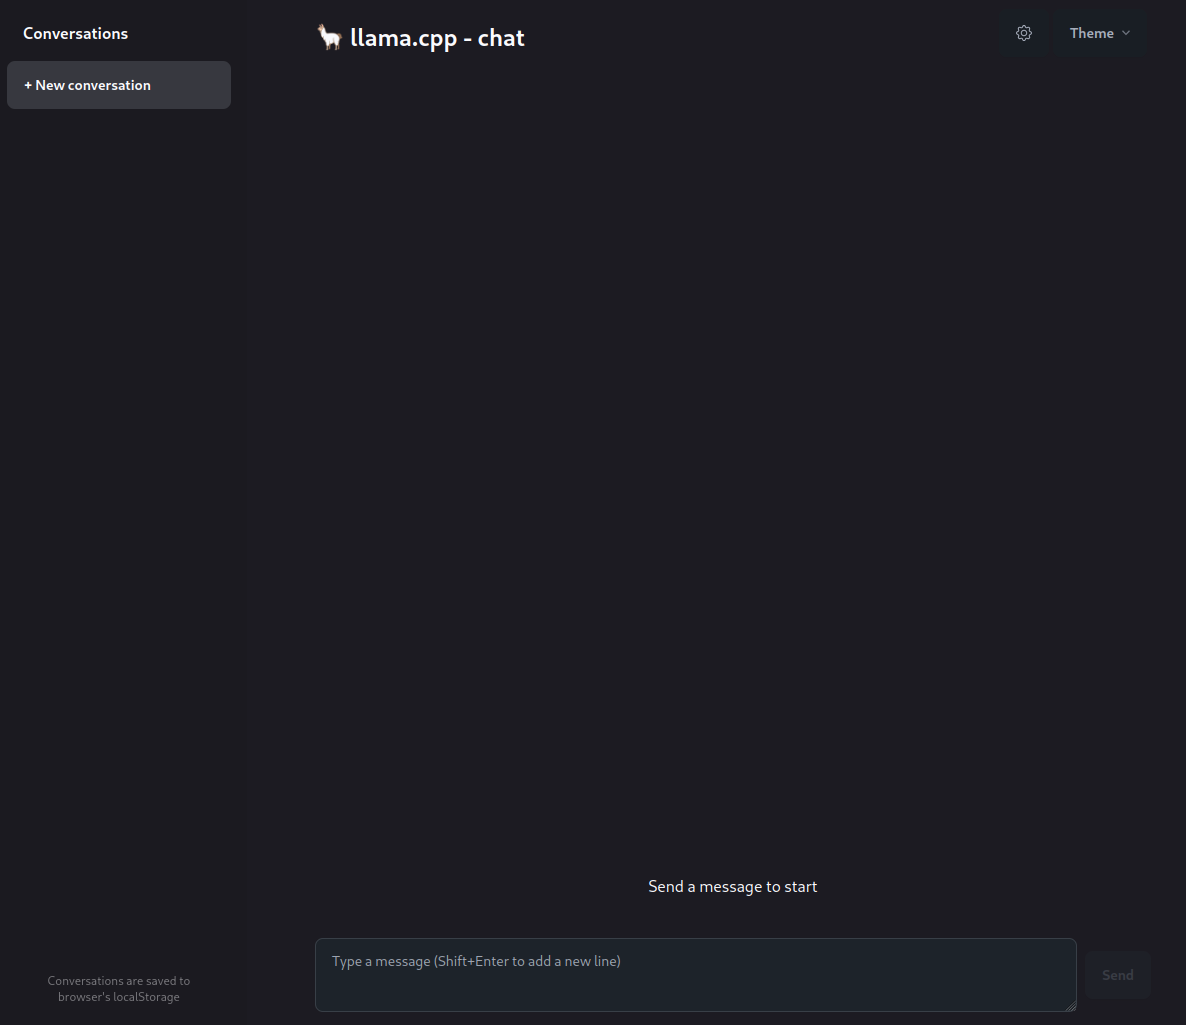
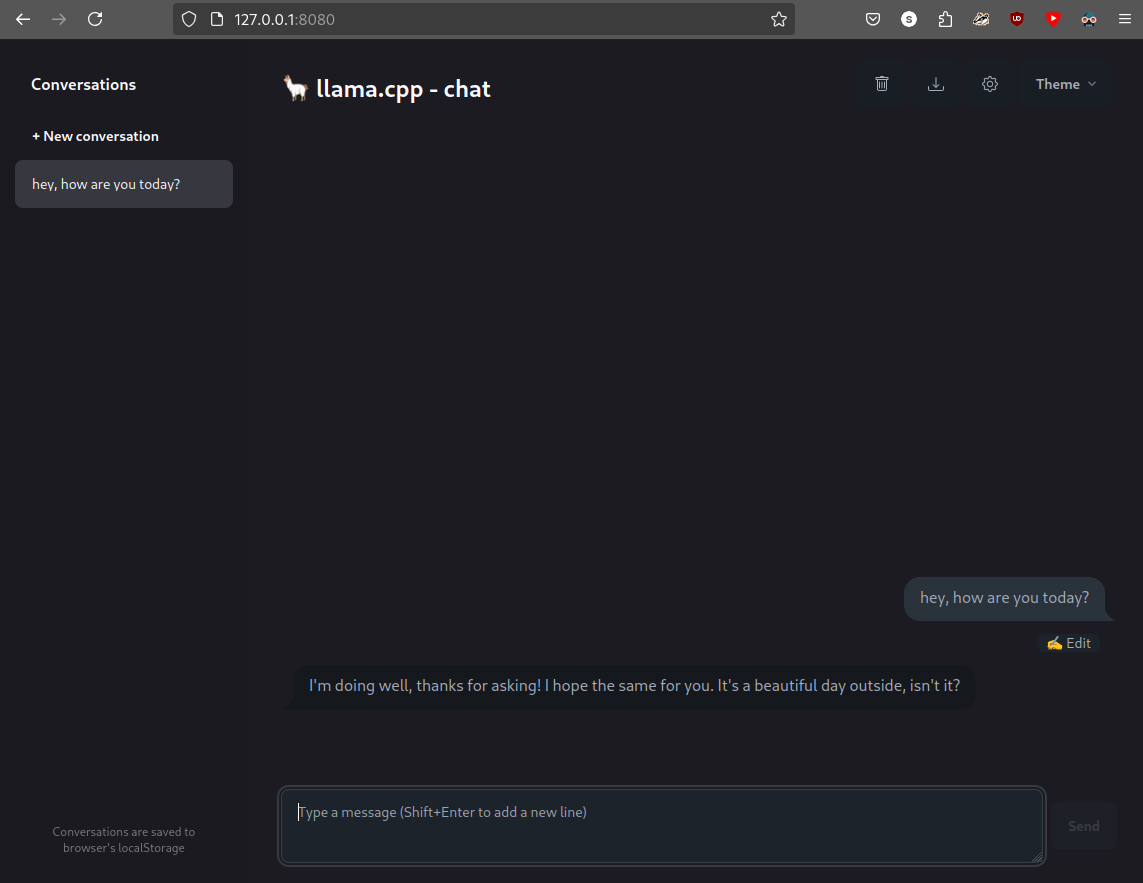
even more llama.cpp content

diff --git a/content/posts/llama-cpp-guide.md b/content/posts/llama-cpp-guide.md
@@ -10,6 +10,8 @@ showFullContent = false
 draft = true
 +++
 
+*No LLMs were harmed during creation of this post.*
+
 ## so, i started playing with LLMs...
 
 ...and it's pretty fun.
@@ -228,7 +230,7 @@ cmake --install build --config Release
 
 Now, after going to `CMAKE_INSTALL_PREFIX/bin` directory, we should see a list of executables and Python scripts:
 
-```sh
+```text
 /c/Users/phoen/llama-build/bin
 ❯ l
 Mode  Size Date Modified Name
@@ -335,7 +337,7 @@ Also, downloading very large files manually is faster, because Git LFS sucks in 
 
 After downloading everything, our local copy of the SmolLM repo should look like this:
 
-```sh
+```text
 PS D:\LLMs\repos\SmolLM2-1.7B-Instruct> l
 Mode  Size Date Modified Name
 -a---  806  2 Nov 15:16  all_results.json
@@ -429,7 +431,7 @@ Next, we need to install prerequisites for the llama.cpp scripts.
 Let's look into `requirements/` directory of our `llama.cpp` repository.
 We should see something like this:
 
-```sh
+```text
 ❯ l llama.cpp/requirements
 Mode  Size Date Modified Name
 -a---  428 11 Nov 13:57  requirements-all.txt
@@ -478,7 +480,7 @@ python llama.cpp/convert_hf_to_gguf.py SmolLM2-1.7B-Instruct --outfile ./SmolLM2
 
 If everything went correctly, you should see similar output:
 
-```sh
+```text
 INFO:hf-to-gguf:Loading model: SmolLM2-1.7B-Instruct
 INFO:gguf.gguf_writer:gguf: This GGUF file is for Little Endian only
 INFO:hf-to-gguf:Exporting model...
@@ -523,10 +525,14 @@ INFO:hf-to-gguf:Model successfully exported to SmolLM2.gguf
 Now we can finally quantize our model!
 To do that, we'll use `llama-quantize` executable that we previously compiled with other `llama.cpp` executables.
 First, let's check what quantizations we have available.
-As of now, `llama-quantize --help` shows following types:
 
 ```sh
-> llama-quantize --help
+llama-quantize --help
+```
+
+As of now, `llama-quantize --help` shows following types:
+
+```text
 
 usage: llama-quantize [--help] [--allow-requantize] [--leave-output-tensor] [--pure] [--imatrix] [--include-weights] [--exclude-weights] [--output-tensor-type] [--token-embedding-type] [--override-kv] model-f32.gguf [model-quant.gguf] type [nthreads]
 
@@ -608,7 +614,7 @@ llama-quantize SmolLM2.gguf SmolLM2.q8.gguf Q8_0 N
 
 You should see similar output:
 
-```sh
+```text
 main: build = 4200 (46c69e0e)
 main: built with gcc (GCC) 14.2.1 20240910 for x86_64-pc-linux-gnu
 main: quantizing 'SmolLM2.gguf' to 'SmolLM2.q8.gguf' as Q8_0 using 24 threads
@@ -709,7 +715,7 @@ You should see a lot of options.
 Some of them will be explained here in a bit, some of them you'll have to research yourself.
 For now, the only options that are interesting to us are:
 
-```sh
+```text
 -m,    --model FNAME                    model path (default: `models/$filename` with filename from `--hf-file`
                                         or `--model-url` if set, otherwise models/7B/ggml-model-f16.gguf)
                                         (env: LLAMA_ARG_MODEL)
@@ -729,7 +735,7 @@ llama-server -m SmolLM2.q8.gguf
 
 You should see similar output after running this command:
 
-```sh
+```text
 build: 4182 (ab96610b) with cc (GCC) 14.2.1 20240910 for x86_64-pc-linux-gnu
 system info: n_threads = 12, n_threads_batch = 12, total_threads = 24
 
@@ -870,4 +876,130 @@ srv  update_slots: all slots are idle
 ```
 
 And now we can access the web UI on `http://127.0.0.1:8080` or whatever host/port combo you've set.
+
 ![llama.cpp webui](/img/llama-cpp/llama-cpp-webui.png)
+
+From this point, you can freely chat with the LLM using the web UI, or you can use the OpenAI-compatible API that `llama-server` provides.
+I won't dig into the API itself here, i've written [a Python library](https://github.com/SteelPh0enix/unreasonable-llama) for it if you're interested in using it (i'm trying to keep it up-to-date with `llama.cpp` master, but it might not be all the time).
+I recommend looking into the [`llama-server` source code and README](https://github.com/ggerganov/llama.cpp/tree/master/examples/server) for more details about endpoints.
+What i will dig into is the configuration of the server and available LLM parameters.
+
+But for now, let's play with web UI.
+On the left, we have list of conversations.
+Those are stored in browser's localStorage (as the disclaimer on the bottom-left graciously explains), which means they are persistent even if you restart the browser.
+Current conversation is passed to the LLM as context, and the context size is limited by server settings (we will learn how to tweak it in a while).
+I recommend making new conversations often and keeping their context focused on the subject for optimal performance.
+
+On the top-right, we have (from left to right) "remove conversation", "download conversation" (in JSON format), "configuration" and "Theme" buttons.
+In the configuration window, we can tweak generation settings for our LLM. **Those settings are currently global, not per-conversation.**
+
+![llama.cpp webui config](/img/llama-cpp/llama-cpp-webui-config.png)
+
+### LLM parameters explained
+
+This will be a relatively long and very informational part full of boring explanations.
+But - it's a good knowledge to have when playing with LLMs.
+I'll explain every single configuration option listed in web UI (except apiKey, because we don't care about it here), but first we need to talk about samplers, and how LLMs work under the hood.
+
+#### how does LLM generate text?
+
+1. Prompt
+
+   Everything starts with a prompt.
+   Prompt can be a simple raw string that we want the LLM to complete for us, or it can be an elaborate construction that allows the LLM to chat or use external tools.
+   Whatever we put in it, it's usually in human-readable format with special "tags" (usually similar to XML tags) used for separating the parts of the prompt.
+
+   We've already seen an example of a prompt used for chat completion, provided by `llama-server`:
+
+   ```text
+   <|im_start|>system
+   You are a helpful assistant<|im_end|>
+   <|im_start|>user
+   Hello<|im_end|>
+   <|im_start|>assistant
+   Hi there<|im_end|>
+   <|im_start|>user
+   How are you?<|im_end|>
+   <|im_start|>assistant
+   ```
+
+   (if you're wondering *what are those funny \<| and |> characters* - those are ligatures from Fira Code font made out of `|`, `>` and `<` characters)
+
+1. Tokenization
+
+   However, the LLM does not understand the human language like we do.
+   We use words and punctuation marks to form sentences - LLMs use tokens that can be understood as an equivalent to those.
+   First step in text generation is breaking the language barrier by performing prompt tokenization.
+   Tokenization is a process of translating input text (in human-readable format) into an array of tokens that can be processed by an LLM.
+   Tokens are simple numeric values, and with a vocabulary they can be easily mapped to their string representations (at least in case of BPE models, don't know about others).
+   In fact, that vocabulary is available in SmolLM2 repository, in `tokenizer.json` file!
+   That file also contains some metadata for *special* tokens that have *special* meaning for the LLM.
+   Some of those tokens represent *meta* things, like start and end of a message.
+   Other can allow the LLM to chat with the user by providing tags for separating parts of conversation (system prompt, user messages, LLM responses).
+   I've also seen tool calling capabilities in LLM templates, which in theory should allow the LLM to use external tools, but i haven't tested them yet (check out Qwen2.5 and CodeQwen2.5 for example models with those functions).
+
+   We can use `llama-server` API to tokenize some text and see how it looks after being translated. Hope you've got `curl`.
+
+   ```sh
+   curl -X POST -H "Content-Type: application/json" -d '{"content": "hello world! this is an example message!"}' http://127.0.0.1:8080/tokenize
+   ```
+
+   For SmolLM2, the response should be following:
+
+   ```json
+   {"tokens":[28120,905,17,451,314,1183,3714,17]}
+   ```
+
+   Which we can very roughly translate to:
+
+   - 28120 - hello
+   - 905 - world
+   - 17 - !
+   - 451 - this
+   - 314 - is
+   - 354 - an
+   - 1183 - example
+   - 3714 - message
+   - 17 - !
+
+   We can pass this JSON back to `/detokenize` endpoint to get our original text back:
+
+   ```sh
+   curl -X POST -H "Content-Type: application/json" -d '{"tokens": [28120,905,17,451,314,354,1183,3714,17]}' http://127.0.0.1:8080/detokenize
+   ```
+
+   ```json
+   {"content":"hello world! this is an example message!"}
+   ```
+
+1. Dark Magick (feeding the beast)
+
+   I honestly don't know what exactly happens in this step, but i'll try my best.
+   The input is the tokenized prompt.
+   This prompt is fed to the LLM, and the digestion process takes most of processing time due to the insane amount of matrix operations that must be performed to satisfy the digital beast.
+   After the prompt is digested, the LLM starts talking to us.
+   LLM talks by generating pairs of tokens and probabilities of them appearing next in the completed text.
+   If we'd just use those as-is, the output would be complete gibberish and would drive people insane, as it's usually the case with demons - digital or not.
+   Those tokens must be filtered out in order to form an output understandable to human beings (or whatever other beings you want to talk with), and that's what token sampling is all about.
+
+1. Token sampling
+
+   This is probably the most interesting step for us, because we can alter every single parameter of it.
+   As usual, i advise caution when working with raw output from demons - digital or not, it may result in unexpected stuff happening when handled incorrectly.
+   For every output token, there's a batch of token-probability pairs generated by LLM that's filtered out by a chain of samplers.
+   Those samplers can access the tokens, their probabilities and something called "logit bias" (that i'm sure is important, but i don't know what exactly that is, other that i know it can be used to filter out tokens from generated responses).
+   There's plenty of different sampling algorithms that can be tweaked for different purposes, and list of those available in llama.cpp with their descriptions is available below.
+
+1. Detokenization
+
+   Generated tokens must be converted back to human-readable form, so a detokenization must take place.
+   This is the last step.
+   Hooray, we tamed the digital beast and forced it to talk.
+   I have previously feared the consequences this could bring upon the humanity, but here we are, that's the way she goes.
+
+#### list of LLM parameters and samplers available in llama.cpp
+
+- **System Message** - Usually, conversations with LLMs start with a "system" message that tells the LLM how to behave. This is a very powerful tool that can drastically change the behavior of the model. My recommendation is to put as much useful informations and precise behavior descriptions for your application as possible, to maximize the quality of LLM output.
+- **Temperature** - per `llama.cpp` docs "Controls the randomness of the generated text by affecting the probability distribution of the output tokens. Higher = more random, lower = more focused". Keep it in 0.2-2.0 range for a start, and don't go below 0.
+- **Top-K** - Top-K sampling is a fancy name for "keep only K most probable next tokens" algorithm. Higher values can result in more diverse text, because there's more tokens to choose from when generating responses.
+- **Top-P** - Top-P sampling, per `llama.cpp` docs "Limits the tokens to those that together have a cumulative probability of at least `p`". In human language, it means that Top-P sampler takes a list of tokens and their probabilities as input (note that the sum of their probabilities is by definition equal to 1), and returns tokens with highest probability from that list until the sum of their probabilities is greater or equal to `p`. Or, in other words, `p` value changes the % of tokens returned by the Top-P sampler. For example, when `p` is equal to 0.7, the sampler will return 70% of input tokens with highest probabilities. There's a [pretty good article](https://rumn.medium.com/setting-top-k-top-p-and-temperature-in-llms-3da3a8f74832) about temperature, Top-K and Top-P sampling that i've found and can recommend if you wanna know more.
